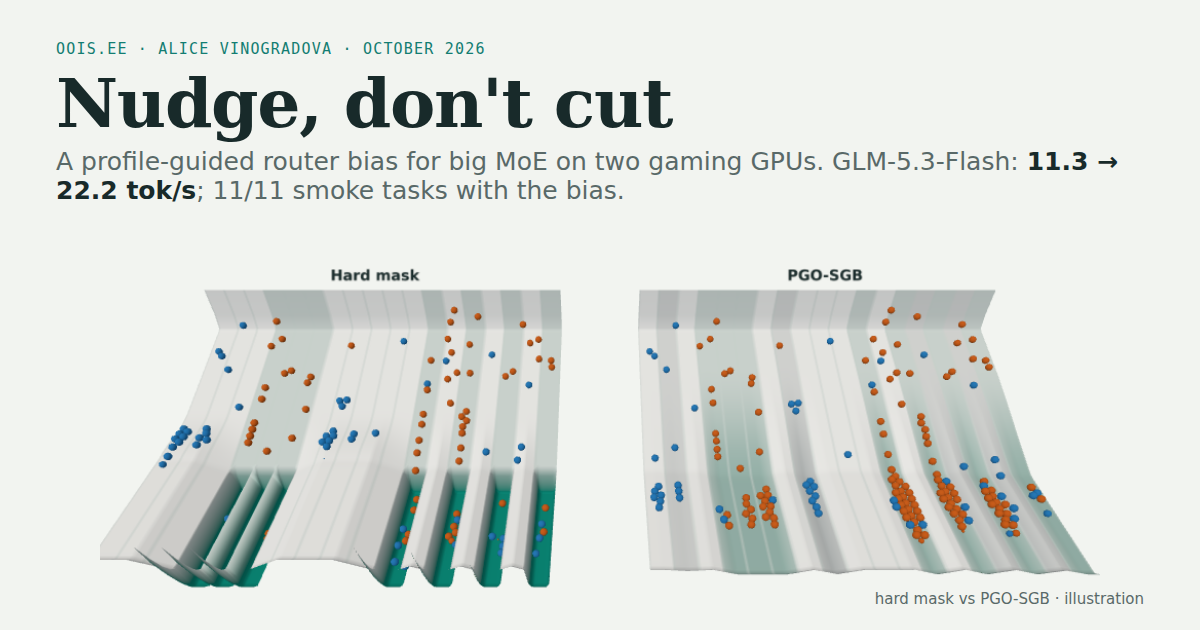
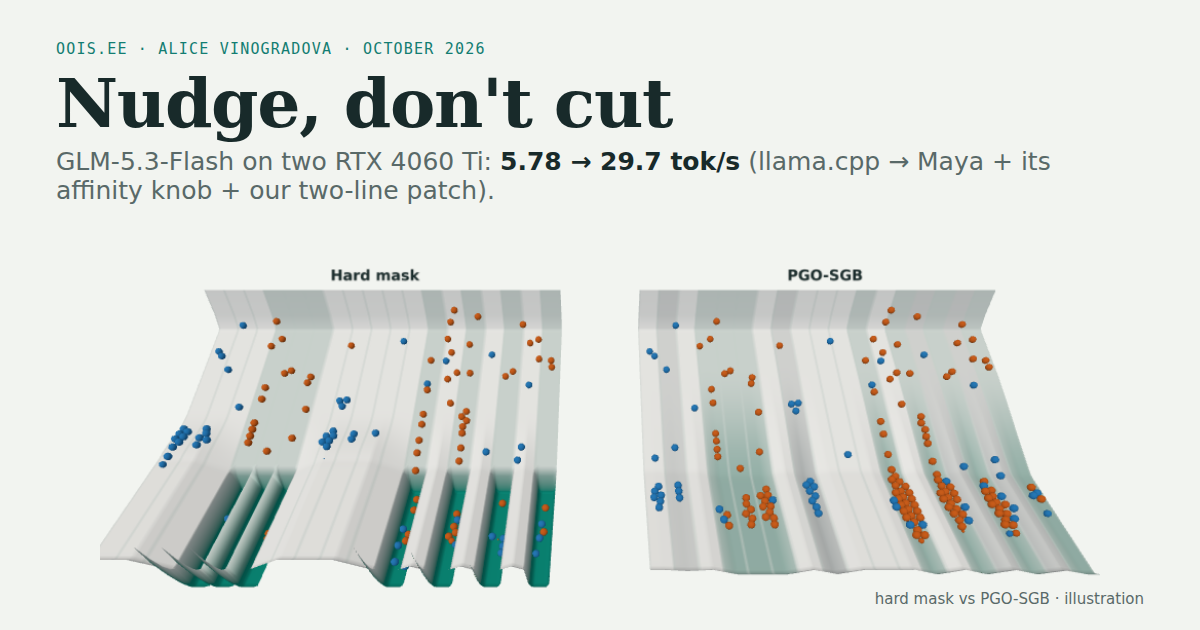
pgo-sgb: Maya's native affinity beats our table; affinity + DEFER_CPU=2 = 29.7 tok/s; what we got out of it
Claude-Session: https://claude.ai/code/session_01Pq8cMHdTuo1Q1S1CycHf7Q

Changed region(s): [[0.0308, 0.2413, 0.925, 0.3317]]

diff --git a/pgo-sgb/index.html b/pgo-sgb/index.html
@@ -6,7 +6,7 @@
 <title>Nudge, don't cut · oisee</title>
 <meta name="description" content="PGO-SGB, a profile-guided soft router bias: big MoE models on two 16 GB gaming GPUs keep all their experts, and the router is nudged towards the ones already in VRAM. Qwen3.8-Flash-Next on Strata and GLM-5.3-Flash on Project Maya, measured on agentic ABAP tasks.">
 <meta property="og:title" content="Nudge, don't cut: a profile-guided router bias for big MoE on gaming GPUs">
-<meta property="og:description" content="Keep every expert, nudge the router towards the ones in VRAM. GLM-5.3-Flash on two RTX 4060 Ti: 11.3 → 22.2 tokens/s; 11 of 11 smoke tasks with the bias alone.">
+<meta property="og:description" content="GLM-5.3-Flash on two RTX 4060 Ti: 5.78 → 29.7 tokens/s (llama.cpp → Maya + its affinity knob + our two-line patch).">
 <meta property="og:image" content="https://oois.ee/pgo-sgb/og.png">
 <meta property="og:image:width" content="1200">
 <meta property="og:image:height" content="630">
@@ -116,9 +116,18 @@ footer{border-top:1px solid var(--rule);padding-top:20px;margin-top:60px;font-si
 <li><b>The idea:</b> keep every expert of a big Mixture-of-Experts model, and give the router one small negative number per layer and expert, taken from a profile of real agent sessions. Experts that sit in VRAM get picked a bit more often; cold experts stay reachable. I call it <b>PGO-SGB</b>: profile-guided soft-gradient bias. The penalty is graded: max(cap, ln(b / b<sub>edge</sub>)).</li>
 <li><b>Why not just cut:</b> on Qwen3.8-Flash-Next with the same hot set, a hard mask gave KL 0.904 against the full model; the graded bias gave 0.505 (llama.cpp, 7 held-out texts).</li>
 <li><b>Qwen3.8-Flash-Next on Strata, two RTX 4060 Ti:</b> at the default cap −0.5 the forced-window KL is 0.098, the cache hit rate goes from 83% to 90%, and decode stays where it was (57–65 tokens/s across caps). All 23 agent runs on Strata (6 distinct tasks, caps −1 and −0.5) solved their tasks.</li>
-<li><b>GLM-5.3-Flash on Project Maya, same box:</b> here the bias does the heavy lifting. 11.3 → 18.9 tokens/s with cap −0.25, 11 of 11 smoke tasks solved. A two-line engine patch (deferring CPU experts on both GPUs; lossy, KL 0.131 against a 0.045 run-to-run floor) and Maya's speculation cancel bring it to <b>22.2 tokens/s</b>. llama.cpp on the same weights did 5.78.</li>
-<li><b>What did not work:</b> expert parallelism over my 2.5 GbE LAN (modelled ≤1.15×), a helper GPU for experts (−43%), skipping missed experts (no gain), and a two-bank "horse" tier that failed its own KL rule.</li>
+<li><b>GLM-5.3-Flash on Project Maya, same box:</b> 5.78 tokens/s in llama.cpp → 11.3 in Maya as shipped → <b>29.7 tokens/s</b> with Maya's own cache affinity plus our two-line <code>DEFER_CPU=2</code> patch (KL 0.117 against the unbiased engine, floor 0.014; the patch alone adds +19.8% on top of the affinity). Our bias was our first step (11.3 → 18.9 with cap −0.25, 11 of 11 smoke tasks) and showed us the way. Then Maya's native affinity knob did the same job better: 22.15 tokens/s at KL 0.044, where our table gives 18.65 at KL 0.072.</li>
+<li><b>The lesson, on both engines:</b> for speed, nudging towards the <em>live</em> cache beats nudging towards a static profile. The profile buys a fixed, predictable selection (and, on Maya, faster prompt processing). We enjoyed finding that out. =)</li>
+<li><b>What did not work:</b> expert parallelism over my 2.5 GbE LAN (modelled ≤1.15×), a helper GPU for experts (−43%), skipping missed experts (no gain), a two-bank "horse" tier that failed its own KL rule, and our static table as a decode accelerator next to Maya's affinity.</li>
 <li><b>Not proven:</b> that the biased models keep the full model's pass rate on fresh, held-out tasks. Every task run here is N = 1 or 2, and the smoke tasks are an engineering check. The paired study is still owed.</li>
+</ul></div>
+
+<div class="tldr" id="got"><h2>What we got out of it</h2><ul>
+<li><b>GLM-5.3-Flash (about 320B) at home on two RTX 4060 Ti:</b> 5.78 → 29.7 tokens/s (KL 0.117, floor 0.014), 11 of 11 smoke tasks at cap −0.25 (on the earlier bias setup), and production code on par with Qwen's by the automatic metrics (its tests are thinner).</li>
+<li><b>A patch that holds up upstream:</b> <code>DEFER_CPU=2</code>, deferring CPU experts on both GPUs. +7.7% on the plain pack (13.0 → 14.0 tokens/s, KL 0.038 against the unpatched engine; the plain-pack run-to-run floor is 0.014, so it is lossy, if mildly); +14.5% together with our bias; and <b>+19.8% on top of Maya's own affinity</b> (24.8 → 29.7 tokens/s, KL 0.099 → 0.117). Offered as <a href="https://github.com/mw00/project-maya/pull/722">Project Maya PR #722</a>.</li>
+<li><b>The full 512-expert Qwen on Strata:</b> 23 of 23 agent runs solved, and about 44% less wall time than my llama.cpp setup on the same four smoke tasks.</li>
+<li><b>Method and tools we will reuse:</b> KL measured inside the engine, interleaved runs with rules written down before the run, blind judging of the code, and an ABAP bench with hidden tests.</li>
+<li><b>An honest map of what does not work</b> (LAN expert parallelism ≤1.15×, a helper GPU, the "horse" two-bank tier), and one clear conclusion: nudge towards the live cache, not towards a static profile.</li>
 </ul></div>
 
 <p>Last time I cut experts out of a 512-expert model to make it fit on two gaming GPUs. It fit. It ran fast. It solved tasks. Then it started thinking in English and looping on its own tests. =)</p>
@@ -257,9 +266,34 @@ footer{border-top:1px solid var(--rule);padding-top:20px;margin-top:60px;font-si
 <li>Four smoke tasks, two runs each, on the combination: 8 of 8 resolved, and median calls stayed within 1.5× of cap −0.25 alone.</li>
 </ul>
 <p>The patch is offered upstream as <a href="https://github.com/mw00/project-maya/pull/722">Project Maya PR #722</a> (open, not merged), with a speed report in <a href="https://github.com/mw00/project-maya/issues/723">issue #723</a>. It is opt-in and changes nothing with the variable unset.</p>
+<h3>Then Maya's own knob beat ours</h3>
+<p>It turns out Maya already has its own knob for this: <code>STRATA_GLM_ROUTE_AFFINITY</code>, from Maya's PR #252. It adds a small λ to the selection score of every expert that is in VRAM <em>right now</em>. It follows the live cache, and it acts in decode only. That is the same idea as the cache-conditional routing paper, minus the profile. So of course I put the two side by side, on the plain unsloth pack, Maya v1.1.42, one session:</p>
 </section>
 
-<div class="chart" id="ch-path"><h3>GLM-5.3-Flash on two RTX 4060 Ti: from 5.78 to 22.2 tokens/s</h3><p class="sub">Decode tokens/s, each bar adds one step. Medians; each bar comes from its own run (see tooltips), not one session: same-session gains are +63% (bias), +14.5% (patch), +4% (cancel).</p><div class="plot"></div></div>
+<div class="chart" id="ch-aff"><h3>At equal KL, the live-cache nudge decodes faster</h3><p class="sub">GLM-5.3-Flash on Maya v1.1.42, plain unsloth pack, i7. Decode tokens/s (Maya's <code>--bench</code>, mean of 2 runs) against teacher-forced KL to the unbiased engine (run-to-run floor 0.014). Up and to the left is better.</p><div class="legend"><span><span class="sw" style="background:var(--c1)"></span>Maya's native affinity λ</span><span><span class="sw" style="background:var(--c2)"></span>our PGO-SGB table, cap</span></div><div class="plot"></div></div>
+
+<section>
+<div class="table-wrap"><table>
+<thead><tr><th>Arm (Maya v1.1.42, plain pack)</th><th class="n">decode t/s</th><th class="n">KL</th><th class="n">hit</th><th class="n">prefill 2K t/s</th></tr></thead>
+<tbody>
+<tr><td>nothing</td><td class="n">13.05</td><td class="n">0.014</td><td class="n">60%</td><td class="n">160</td></tr>
+<tr><td>affinity λ 0.05</td><td class="n">17.95</td><td class="n">0.030</td><td class="n">77%</td><td class="n">167</td></tr>
+<tr><td>affinity λ 0.125</td><td class="n">22.15</td><td class="n">0.044</td><td class="n">84%</td><td class="n">167</td></tr>
+<tr><td>affinity λ 0.25</td><td class="n">24.65</td><td class="n">0.099</td><td class="n">89%</td><td class="n">168</td></tr>
+<tr><td>our profile + affinity λ 0.125</td><td class="n">22.25</td><td class="n">0.043</td><td class="n">84%</td><td class="n">167</td></tr>
+<tr><td>our profile + affinity λ 0.25</td><td class="n">24.45</td><td class="n">0.092</td><td class="n">88%</td><td class="n">168</td></tr>
+<tr><td>PGO-SGB cap −0.125</td><td class="n">18.65</td><td class="n">0.072</td><td class="n">79%</td><td class="n">207</td></tr>
+<tr><td>PGO-SGB cap −0.25</td><td class="n">21.2</td><td class="n">0.126</td><td class="n">83%</td><td class="n">254</td></tr>
+<tr><td>PGO-SGB cap −0.5</td><td class="n">22.6</td><td class="n">0.238</td><td class="n">87%</td><td class="n">321</td></tr>
+</tbody></table></div>
+<p>At the same KL as our cap −0.125 (0.072), the affinity curve sits at about 23.4 tokens/s (interpolated between its measured points), against our 18.65. That is about 25% more decode for the same drift. Our profile on top of affinity adds nothing (22.25 vs 22.15). The rule I wrote down before the run said "propose the table for decode only if it is at least 10% faster at equal KL". It was not, so I am not proposing it.</p>
+<p>The table keeps one honest plus: it also acts in the prompt path, so prefill is 24–94% faster at 2,048 tokens and 11–44% faster at 8,192. Affinity does not touch prefill at all.</p>
+<p>Strata told the same story with Qwen: on one GPU (Strata's own speed harness, median of chat medians), its built-in residency prior at 0.5 decodes 26% faster than no bias, while cap −0.5 gives 2%, at about the same KL. Two engines, one conclusion: <b>for speed, push towards the live cache, not towards a static profile.</b> The profile gives a fixed, predictable selection that does not drift with the cache, which is worth something, but it is not the fast lane.</p>
+<p>Did the bias work go to waste? Not at all. It got GLM from 11.3 to 18.9 first, it is how I learned where the time goes, and it led straight to the <code>DEFER_CPU</code> patch, which is the part Maya can actually use. Finding out that someone else's knob is better is a perfectly good result. It also saves me maintaining one. =)</p>
+<p>And the patch stacks nicely on top of the native knob. Same session, plain pack: affinity λ 0.25 alone 24.8 tokens/s, with <code>DEFER_CPU=2</code> <b>29.7</b> (+19.8%), 2.28× the 13.0 we started this session with. KL goes from 0.099 (measured in the comparison run) to 0.117 against a run-to-run floor of 0.014, so it is lossy, and I say so. Our pre-registered rule (at least +5% and at most +0.03 KL) passed at λ 0.25; at λ 0.125 the speedup was similar (22.3 → 26.35, +18%) but KL grew by 0.039, so that one did not count. The profiler shows why: the CPU-lane wait fell from about 11 ms to 3.6 ms per token on each card, and the two GPUs are now almost balanced (40.7 vs 42.1 ms per token). Speculation cancel on top gives 29.9, the same within noise.</p>
+</section>
+
+<div class="chart" id="ch-path"><h3>GLM-5.3-Flash on two RTX 4060 Ti: from 5.78 to 29.7 tokens/s</h3><p class="sub">Decode tokens/s. The first five bars are the path we took on Maya v1.1.38 (our profile pack, 1,548-token prompt, medians); the last two are Maya v1.1.42 on the plain pack with its native affinity (<code>--bench</code>). Different sessions and protocols, see tooltips. Same-session gains: our bias +63% (11.6 → 18.9), the patch +14.5%, cancel +4%; native affinity λ 0.25 +91% (13.0 → 24.8), and the patch on top of it +19.8% (24.8 → 29.7).</p><div class="plot"></div></div>
 
 <section id="negative"><h2>What didn't work</h2>
 <p>Some of my favourite ideas this week died on contact with a stopwatch. Here they are, so nobody has to try them again on the same hardware.</p>
@@ -269,6 +303,7 @@ footer{border-top:1px solid var(--rule);padding-top:20px;margin-top:60px;font-si
 <li><b>Skipping missed experts.</b> It cut the CPU lane from 33.1 to 27.5 ms per token and did not speed up decode, because the second GPU, not the CPU lane, sets the pace. That is how I found the <code>DEFER_CPU</code> lever above.</li>
 <li><b>Two parallel streams:</b> 1.15× total throughput, each stream much slower. Not worth it for one agent.</li>
 <li><b>The "horse": a two-bank tier for Qwen in Strata</b>, with a 2-bit Q2_0 copy of every expert for the CPU's misses. Its gate was KL ≤ 0.02 against the same engine without it. It measured 0.156, and its +19% decode was invalid anyway (the Q2_0 bank was 9–19% in page cache, and the two arms decoded different token streams). Dropped by its own rule.</li>
+<li><b>Our static table as a decode accelerator.</b> On Maya, the native live-cache affinity reaches the same KL with about 25% more decode, and our profile adds nothing on top of it. On Strata the built-in prior does the same at equal KL (+26% against +2%). The table stays useful for predictability and prefill, not for decode speed.</li>
 </ul>
 </section>
 
@@ -276,16 +311,17 @@ footer{border-top:1px solid var(--rule);padding-top:20px;margin-top:60px;font-si
 <ul>
 <li><b>Same pass rate on fresh tasks.</b> Still the main debt. Smoke tasks were partly in the profile corpus; they are an engineering check, not a generalisation test. I need held-out tasks, the same harness and budget for parent and candidate, and a loss bar decided in advance.</li>
 <li><b>N.</b> Almost every task run here is N = 1 or 2. Wall time varies up to 4× between runs of the same task.</li>
-<li><b>KL on GLM.</b> Maya's GLM path exposes no log-probabilities for the bias sweep; the teacher-forced scorer came later and was used for the patch only.</li>
+<li><b>KL on GLM.</b> Maya's GLM path exposes no log-probabilities for the bias sweep; the teacher-forced scorer came later and was used for the patch and the affinity comparison.</li>
 <li><b>Effort.</b> GLM ran at effort medium, Qwen at xhigh. The code comparison carries that confound.</li>
-<li><b>Next:</b> the paired held-out study; a cap chosen per machine (an 8 GB card wants a smaller hot set); and phase 2, the full 744B GLM-5.3 with the same pipeline.</li>
+<li><b>29.7 on agent tasks.</b> The affinity numbers are <code>--bench</code> speed and teacher-forced KL; I have not yet run the smoke tasks on affinity + <code>DEFER_CPU=2</code>, so the 11 of 11 belongs to the earlier bias setup.</li>
+<li><b>Next:</b> the paired held-out study; the best live-cache setting per engine and per machine; whether a profile is still useful as a <em>seed</em> for the live cache, or for prefill; and phase 2, the full 744B GLM-5.3 with the same pipeline.</li>
 </ul>
-<p>The nice part: the pipeline did carry over. Profile from agent sessions, one table, one dial, the same bench. A new engine and a new router type cost a sweep and a few days, not a rewrite. Nudge, don't cut. =)</p>
+<p>The nice part: the pipeline did carry over. Profile from agent sessions, one table, one dial, the same bench. A new engine and a new router type cost a sweep and a few days, not a rewrite. And the bench was honest enough to tell me when someone else's knob was better. Nudge, don't cut, and nudge towards the live cache. =)</p>
 <p>Thanks to Strata (Niko1221), Project Maya (mw00, co-maintained by needmorevram), unsloth for the GLM GGUFs, ISTA-DASLab for the Qwen IQ3_S, Skliar et&nbsp;al. for the cache-conditional routing paper, and the ABAP tooling community behind the bench.</p>
 <p class="comments-link"><a href="https://www.linkedin.com/in/oisee/">💬 Comments and questions: find me on LinkedIn →</a></p>
 </section>
 
-<aside class="data-note" id="data"><b>Data.</b> Every number on this page comes from a run report in my cnm work repository (private for now). Run directories: Qwen on Strata: <code>2026-10-29-strata-cap-sweep</code>, <code>2026-10-29-strata-kl-i7</code>, <code>2026-10-29-cap-replay</code>, <code>2026-10-29-qwen-c05-check</code>, <code>2026-10-29-c05-vs-c1-ab</code>, <code>2026-10-29-strata-smoke11-pr6</code>, <code>2026-10-29-i7-queue-agent-e0</code>; hard vs graded KL in llama.cpp: <code>2026-10-28-s19-d-pod</code>. GLM on Maya: <code>2026-10-29-maya-glm-step0</code>, <code>2026-10-29-maya-glm-step0b</code>, <code>2026-10-30-maya-glm-bias-sweep</code>, <code>2026-10-30-maya-glm-smoke12-c025</code>, <code>2026-10-30-glm-vs-qwen-code-metrics</code>, <code>2026-10-31-maya-glm-defer2-spec</code>, <code>2026-10-31-maya-glm-cancel-combo</code>. Negative results: <code>2026-10-30-net-ep-feasibility</code>, <code>2026-10-30-maya-glm-arms</code>, <code>2026-10-29-stratagasus-bmin</code>. Speeds are engine timings, one run at a time on an idle i7.</aside>
+<aside class="data-note" id="data"><b>Data.</b> Every number on this page comes from a run report in my cnm work repository (private for now). Run directories: Qwen on Strata: <code>2026-10-29-strata-cap-sweep</code>, <code>2026-10-29-strata-kl-i7</code>, <code>2026-10-29-cap-replay</code>, <code>2026-10-29-qwen-c05-check</code>, <code>2026-10-29-c05-vs-c1-ab</code>, <code>2026-10-29-strata-smoke11-pr6</code>, <code>2026-10-29-i7-queue-agent-e0</code>; hard vs graded KL in llama.cpp: <code>2026-10-28-s19-d-pod</code>. GLM on Maya: <code>2026-10-29-maya-glm-step0</code>, <code>2026-10-29-maya-glm-step0b</code>, <code>2026-10-30-maya-glm-bias-sweep</code>, <code>2026-10-30-maya-glm-smoke12-c025</code>, <code>2026-10-30-glm-vs-qwen-code-metrics</code>, <code>2026-10-31-maya-glm-defer2-spec</code>, <code>2026-10-31-maya-glm-cancel-combo</code>, <code>2026-10-31-maya-upstream</code>, <code>2026-10-31-maya-native-vs-bias</code>, <code>2026-10-31-maya-affinity-defer2</code>; Strata prior at equal KL: <code>2026-10-31-strata-upstream</code>. Negative results: <code>2026-10-30-net-ep-feasibility</code>, <code>2026-10-30-maya-glm-arms</code>, <code>2026-10-29-stratagasus-bmin</code>. Speeds are engine timings, one run at a time on an idle i7.</aside>
 <footer>oisee · <a href="../">oois.ee</a> · The 3D scene uses three.js 0.160.0 from jsDelivr; everything else is inline HTML, SVG and JavaScript.</footer>
 </main>
 <div id="tip" role="tooltip"></div>
@@ -339,7 +375,7 @@ function vbars(host,o){var plot=host.querySelector('.plot');
 function hbars(host,o){var plot=host.querySelector('.plot');
   function draw(){var W=Math.max(260,plot.clientWidth),narrow=W<520,rowH=narrow?52:38,T=6,H=T+o.rows.length*rowH+20;plot.textContent='';
     var L=narrow?8:(o.left||200),R=56;var svg=el('svg',{width:W,height:H,viewBox:'0 0 '+W+' '+H,role:'group','aria-label':o.label},plot);
-    var x=function(v){return L+v/o.max*(W-L-R);};
+    var x=function(v){return L+(isNaN(v)?0:v)/o.max*(W-L-R);};
     niceTicks(o.max,narrow?3:5).forEach(function(t){el('line',{x1:x(t),x2:x(t),y1:T,y2:H-20,style:'stroke:var(--grid)'},svg);txt(svg,x(t),H-5,fmt(t,0),{'text-anchor':'middle','font-size':11});});
     o.rows.forEach(function(r,i){var y0=T+i*rowH,by=narrow?y0+22:y0+8,bh=narrow?18:22;
       if(narrow)txt(svg,L,y0+16,r[0],{'font-size':12,style:'fill:var(--fg)'});else txt(svg,L-8,by+bh/2+4,r[0],{'text-anchor':'end','font-size':13,style:'fill:var(--fg)'});
@@ -365,6 +401,23 @@ function lines(host,o){var plot=host.querySelector('.plot');
     for(var i=0;i<n;i++){var cw=(W-L-R-24)/(n-1);hit(svg,{x:x(i)-cw/2,y:T,width:cw,height:H-T-B},o.tip(i));}}
   draw();new ResizeObserver(function(){draw();}).observe(plot);table(host,o.thead,o.trows);}
 
+/* x-y scatter with lines, up to 2 series, one y axis */
+function xy(host,o){var plot=host.querySelector('.plot');
+  function draw(){var W=Math.max(260,plot.clientWidth),H=280,L=44,R=W<520?16:24,T=14,B=44;plot.textContent='';
+    var svg=el('svg',{width:W,height:H,viewBox:'0 0 '+W+' '+H,role:'group','aria-label':o.label},plot);
+    var x=function(v){return L+v/o.xmax*(W-L-R);},y=function(v){return T+(1-v/o.ymax)*(H-T-B);};
+    niceTicks(o.ymax,4).forEach(function(t){el('line',{x1:L,x2:W-R,y1:y(t),y2:y(t),style:'stroke:var(--grid)'},svg);txt(svg,L-6,y(t)+4,fmt(t,0),{'text-anchor':'end','font-size':11});});
+    niceTicks(o.xmax,W<520?3:5).forEach(function(t){txt(svg,x(t),H-B+17,fmt(t,2),{'text-anchor':'middle','font-size':11});});
+    el('line',{x1:L,x2:W-R,y1:y(0),y2:y(0),style:'stroke:var(--muted)'},svg);
+    txt(svg,(L+W-R)/2,H-4,o.xlabel,{'text-anchor':'middle','font-size':11});
+    o.series.forEach(function(s,k){var d='';s.p.forEach(function(q,i){d+=(i?'L':'M')+x(q[0])+','+y(q[1]);});
+      el('path',{d:d,fill:'none',style:'stroke:var(--'+s.c+');stroke-width:2'+(k?';stroke-dasharray:6 4':'')},svg);
+      s.p.forEach(function(q){var cx=x(q[0]),cy=y(q[1]);
+        if(k)el('rect',{x:cx-4.5,y:cy-4.5,width:9,height:9,rx:1.5,style:'fill:var(--'+s.c+');stroke:var(--paper);stroke-width:2'},svg);else el('circle',{cx:cx,cy:cy,r:5,style:'fill:var(--'+s.c+');stroke:var(--paper);stroke-width:2'},svg);
+        if(q[3]&&!(W<520&&q[0]<0.035))txt(svg,cx+(k?0:-8),cy+(k?18:-9),q[3],{'text-anchor':k?'middle':'end','font-size':11,style:'fill:var(--fg)'});
+        hit(svg,{x:cx-12,y:cy-12,width:24,height:24},'<b>'+q[2]+'</b><br>decode <b>'+fmt(q[1],2)+'</b> tok/s<br>KL '+fmt(q[0],3));});});}
+  draw();new ResizeObserver(function(){draw();}).observe(plot);table(host,o.thead,o.trows);}
+
 /* data: see FACTS.md for sources */
 var Q={cats:['off','−0.5','−1','−1.5','−2'],kl:[0,0.098,0.153,0.333,0.507],ru:[0,0.064,0.158,0.664,1.028],top1:[100,87.1,83.7,77.0,72.7],dnll:['0','+0.028','+0.069','+0.191','+0.357'],dec:[58.74,57.44,59.45,64.71,60.06],hit:[83.4,89.7,92.4,92.1,92.0],mtp:[68.8,62.6,64.2,73.5,65.5]};
 lines(document.getElementById('ch-kl'),{label:'KL versus cap, Qwen on Strata',cats:Q.cats,max:1.1,xlabel:'PGO-SGB cap',
@@ -387,12 +440,19 @@ hbars(document.getElementById('ch-break'),{label:'Time per part pass',max:20,dec
   ['PCIe expert fetch',7,'7 ms','<b>PCIe fetch</b>: 7 ms per pass<br>cache misses copied to VRAM'],
   ['MoE on the GPU',6,'6 ms','<b>MoE on the GPU</b>: 6 ms per pass'],
   ['rest: attention, dense, host',15.5,'15–16 ms','<b>Everything else</b>: 15–16 ms per pass<br>attention, shared expert, dense layers, host']]});
-hbars(document.getElementById('ch-path'),{label:'GLM decode path',max:25,dec:1,left:230,thead:['step','decode tok/s','run'],rows:[
+xy(document.getElementById('ch-aff'),{label:'Decode versus KL: native affinity and PGO-SGB',xmax:0.25,ymax:30,xlabel:'KL to the unbiased engine (lower = closer)',
+  series:[{c:'c1',p:[[0.014,13.05,'nothing',''],[0.030,17.95,'affinity λ 0.05','0.05'],[0.044,22.15,'affinity λ 0.125','0.125'],[0.099,24.65,'affinity λ 0.25','λ 0.25']]},
+          {c:'c2',p:[[0.014,13.05,'nothing',''],[0.072,18.65,'PGO-SGB cap −0.125','−0.125'],[0.126,21.2,'PGO-SGB cap −0.25','−0.25'],[0.238,22.6,'PGO-SGB cap −0.5','cap −0.5']]}],
+  thead:['arm','KL','decode tok/s'],trows:[['nothing','0.014','13.05'],['affinity λ 0.05','0.030','17.95'],['affinity λ 0.125','0.044','22.15'],['affinity λ 0.25','0.099','24.65'],['our profile + affinity λ 0.125','0.043','22.25'],['our profile + affinity λ 0.25','0.092','24.45'],['PGO-SGB cap −0.125','0.072','18.65'],['PGO-SGB cap −0.25','0.126','21.2'],['PGO-SGB cap −0.5','0.238','22.6']]});
+var COMBO=parseFloat('29.7');
+hbars(document.getElementById('ch-path'),{label:'GLM decode path',max:isNaN(COMBO)||COMBO<=25?25:Math.ceil(COMBO/5)*5,dec:1,left:250,thead:['step','decode tok/s','run'],rows:[
   ['llama.cpp, same weights',5.78,'5.78','<b>llama.cpp</b>: 5.78 tok/s<br>same GGUF, not a strict A/B<br>run 2026-10-29-maya-glm-step0','2026-10-29-maya-glm-step0'],
   ['Project Maya v1.1.38, as shipped',11.3,'11.3','<b>Maya v1.1.38</b>, shipped profile: 11.3 tok/s<br>runs 10.9 / 11.3 / 11.4, cache hit 57–58%<br>run 2026-10-29-maya-glm-step0','2026-10-29-maya-glm-step0'],
   ['+ PGO-SGB cap −0.25',18.9,'18.9','<b>+ PGO-SGB cap −0.25</b>: 18.9 tok/s<br>runs 18.3 / 19.1 / 18.9 (same-session base 11.6)<br>run 2026-10-30-maya-glm-bias-sweep','2026-10-30-maya-glm-bias-sweep'],
   ['+ DEFER_CPU=2 patch',21.3,'21.3','<b>+ DEFER_CPU=2</b> (patched): 21.3 tok/s<br>median of 6, same-session base 18.6 (+14.5%)<br>run 2026-10-31-maya-glm-cancel-combo','2026-10-31-maya-glm-cancel-combo'],
-  ['+ SPEC_CANCEL',22.2,'22.2','<b>+ SPEC_CANCEL</b>: 22.2 tok/s<br>median of 6, +4.2% vs DEFER alone, ranges overlap<br>run 2026-10-31-maya-glm-cancel-combo','2026-10-31-maya-glm-cancel-combo']]});
+  ['+ SPEC_CANCEL',22.2,'22.2','<b>+ SPEC_CANCEL</b>: 22.2 tok/s<br>median of 6, +4.2% vs DEFER alone, ranges overlap<br>run 2026-10-31-maya-glm-cancel-combo','2026-10-31-maya-glm-cancel-combo'],
+  ['Maya v1.1.42 + native affinity λ 0.25',24.8,'24.8','<b>Maya v1.1.42, native affinity λ 0.25</b>: 24.8 tok/s<br>plain pack, --bench mean of 2, KL 0.099, hit 89%<br>same session as the next bar (24.65 in the earlier comparison run)<br>run 2026-10-31-maya-affinity-defer2','2026-10-31-maya-affinity-defer2'],
+  ['+ DEFER_CPU=2 (on affinity)',COMBO,isNaN(COMBO)?'pending':'29.7','<b>Maya v1.1.42, affinity λ 0.25 + DEFER_CPU=2</b>: 29.7 tok/s<br>runs 29.7 / 29.7, KL 0.117 (floor 0.014), hit 88%<br>+19.8% vs affinity alone<br>run 2026-10-31-maya-affinity-defer2','2026-10-31-maya-affinity-defer2']]});
 })();
 </script>
 
